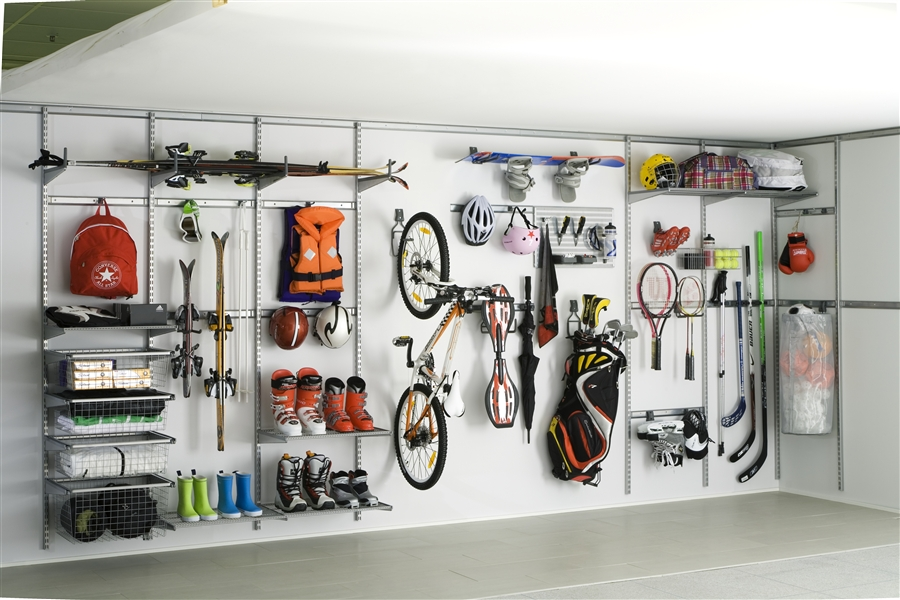
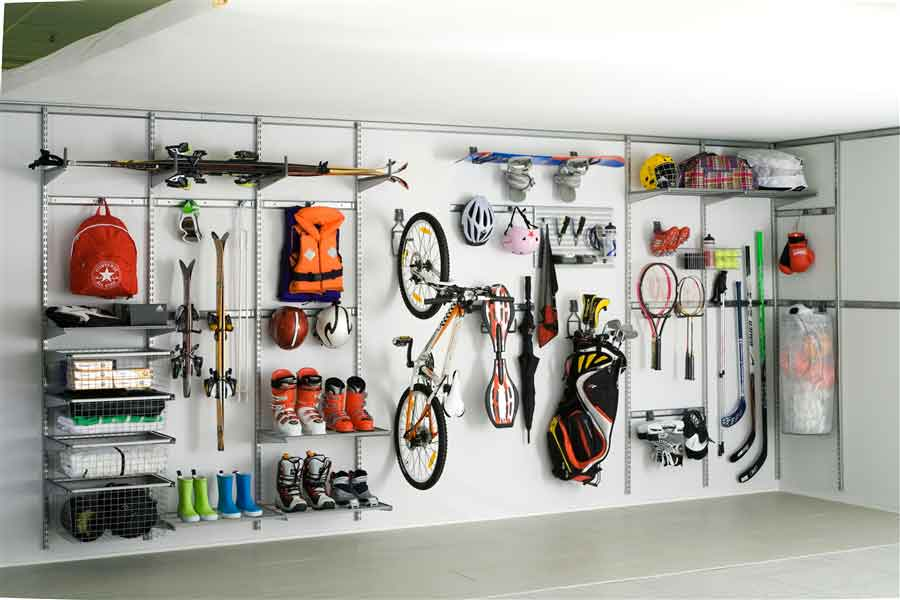
optimizing img

diff --git a/assets/css/main.css b/assets/css/main.css
@@ -229,7 +229,7 @@ img {
 
 .gallery-card {
   height: 180px;
-  background: url(../img/gallery/01.png) no-repeat center;
+  background: url(../img/gallery/01.jpg) no-repeat center;
   background-size: cover;
   margin: 0 auto;
   margin-bottom: 0.5rem;
